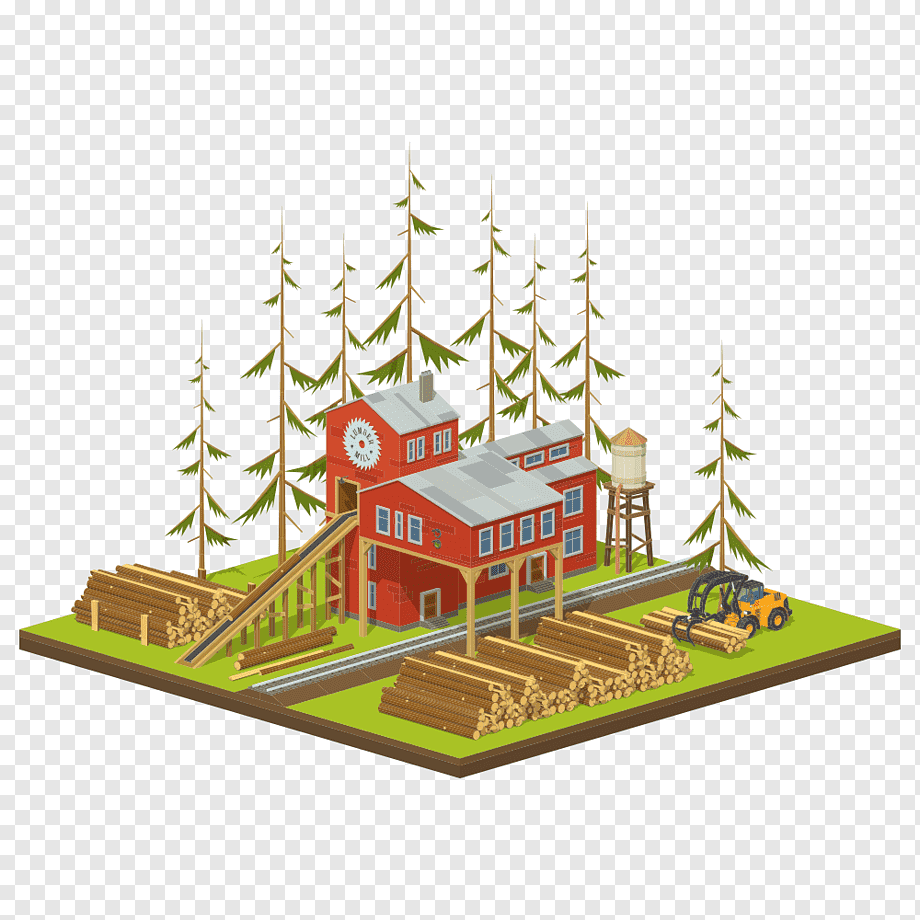
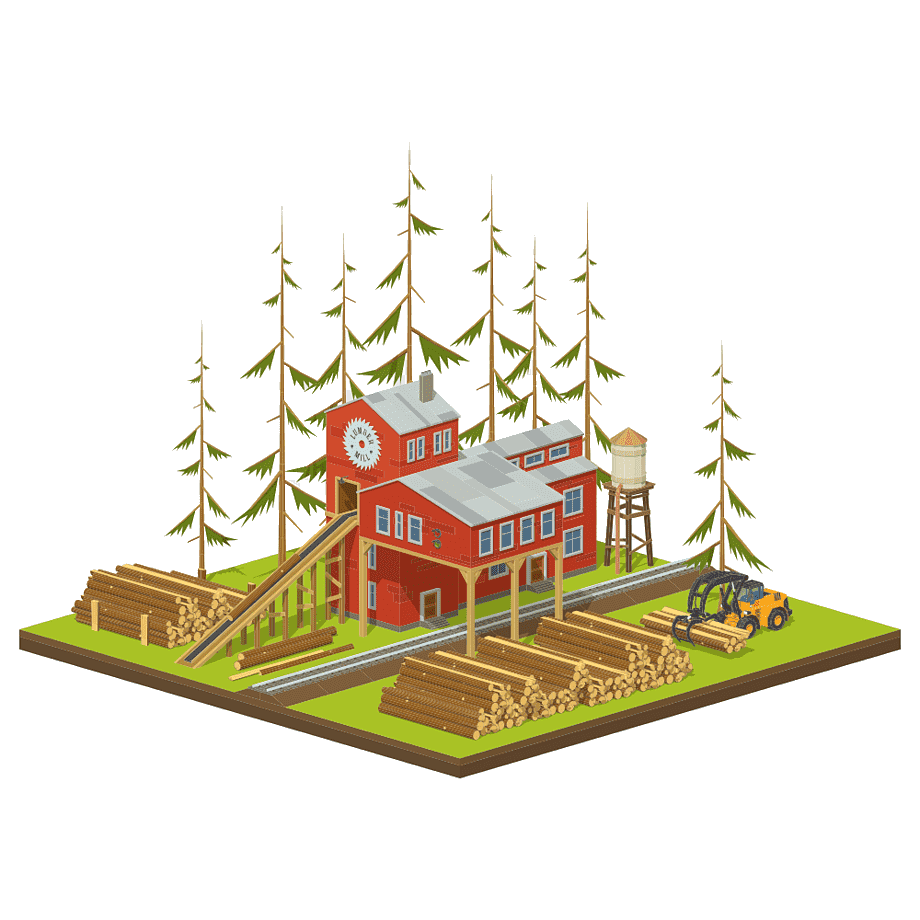
Updated images and added the sawmill Also made doodads cost money

diff --git a/lib/model_assets/doodad_models.dart b/lib/model_assets/doodad_models.dart
@@ -50,7 +50,7 @@ final doodadDefinitionsExample = [
     supportedLocations: {TileType.IronDeposit},
     ticksRequired: 5,
     ticksName: 'Digging',
-    itemMined: [ItemInstanceGenerator(Items.IRON, 1)].build(),
+    itemMined: [ItemInstanceGenerator(Items.IRON_ORE, 1)].build(),
   ),
   RegenerativeHarvestableDoodadDefinition(
       id: DoodadId.tree,
@@ -82,12 +82,23 @@ final doodadDefinitionsExample = [
       id: DoodadId.treeCutterHut,
       name: 'Tree cutter hut',
       description: 'Cuts down trees within 1 range.',
-      imageAsset: 'assets/images/doodad/lumberHut.jpg',
-      storeImageAsset: 'assets/images/doodad/lumberHut.jpg',
+      imageAsset: 'assets/images/doodad/lumberHut.png',
+      storeImageAsset: 'assets/images/doodad/lumberHut.png',
       supportedLocations: {TileType.Grass},
       ticksRequired: 20,
       ticksName: 'Cutting',
       range: 1),
+  MaterialProcessorDoodadDefinition(
+      id: DoodadId.sawMill,
+      name: 'Sawmill',
+      description: 'Cuts wood into planks',
+      imageAsset: 'assets/images/doodad/sawmill.png',
+      storeImageAsset: 'assets/images/doodad/sawmill.png',
+      supportedLocations: {TileType.Grass},
+      ticksRequired: 15,
+      ticksName: 'Cutting',
+      consumedMaterials: ItemRequirement.single(Items.WOOD, 2),
+      itemsProduced: Items.PLANK.generateItemInstance(1)),
   MaterialProcessorDoodadDefinition(
       id: DoodadId.ironSmelter,
       name: 'Iron smelter',
@@ -97,6 +108,6 @@ final doodadDefinitionsExample = [
       supportedLocations: {TileType.Grass},
       ticksRequired: 15,
       ticksName: 'Smelting',
-      consumedMaterials: ItemRequirement.single(Items.IRON, 2),
+      consumedMaterials: ItemRequirement.single(Items.IRON_ORE, 2),
       itemsProduced: Items.IRON_BAR.generateItemInstance(1)),
 ].build();

diff --git a/lib/planet/planet_controller.dart b/lib/planet/planet_controller.dart
@@ -157,8 +157,8 @@ class PlanetController extends StateNotifier<Planet> {
     planet = planet.rebuild((p0) {
       p0[p] = tile.copyWith(resources: tile.resources - resolvedDamage);
     });
-    return Items.IRON
-        .generateItemInstance(resolvedDamage.items[Items.IRON] ?? 0);
+    return Items.IRON_ORE
+        .generateItemInstance(resolvedDamage.items[Items.IRON_ORE] ?? 0);
   }
 
   void scanForResources(PlanetPoint p, int radius) {
@@ -188,7 +188,7 @@ class PlanetController extends StateNotifier<Planet> {
       min(
               255,
               (255 *
-                  planetTile.resources.get(Items.IRON) /
+                  planetTile.resources.get(Items.IRON_ORE) /
                   planet.maxResourceSize))
           .toInt(),
       0,
@@ -205,9 +205,9 @@ class PlanetController extends StateNotifier<Planet> {
         int index = y * width + x;
         var tile = map[PlanetPoint(x, y, 0)]!;
 
-        final color =
-            min(255, (255 * tile.resources.get(Items.IRON) / maxResourceSize))
-                .toInt();
+        final color = min(255,
+                (255 * tile.resources.get(Items.IRON_ORE) / maxResourceSize))
+            .toInt();
         pixels[index] = Color.fromRGBO(
                 tile.visible ? color : 20,
                 tile.visible ? r.nextInt(1) : 100 + r.nextInt(100),

diff --git a/lib/model_assets/quest_models.dart b/lib/model_assets/quest_models.dart
@@ -11,7 +11,7 @@ final quests = [
       description:
           'This is an example quest. Please give me 5 credits so I can give you 25 rocks.',
       enabledRequirement:
-          Requirement(itemsOwned: ItemRequirement.single(Items.IRON, 5)),
+          Requirement(itemsOwned: ItemRequirement.single(Items.IRON_ORE, 5)),
       completeRequirement: Requirement(
         cost: ItemRequirement.single(Items.CREDIT, 5),
       ),
@@ -33,7 +33,7 @@ final quests = [
       description: 'This quest checks that you own Iron',
       enabledRequirement: const Requirement(),
       completeRequirement:
-          Requirement(itemsOwned: ItemRequirement.single(Items.IRON, 5)),
+          Requirement(itemsOwned: ItemRequirement.single(Items.IRON_ORE, 5)),
       reward: QuestReward(
         items: ItemContainer.single(Items.ROCK, 25),
       )),
@@ -45,7 +45,7 @@ final quests = [
       enabledRequirement: const Requirement(),
       completeRequirement: Requirement(
           cost: ItemRequirement({
-        Items.IRON: 50,
+        Items.IRON_ORE: 50,
         Items.CREDIT: 25,
       })),
       reward: const QuestReward(

diff --git a/lib/widgets/planet_page.dart b/lib/widgets/planet_page.dart
@@ -284,6 +284,12 @@ void buyDoodad(WidgetRef ref) {
   final selectedTile = ref.read(selectedTileControllerProvider);
   if (listing == null || selectedTile == null) return;
 
+  final shopController =
+      ref.read(storePlanetBuyMenuControllerProvider.notifier);
+  if (shopController.canBuy(listing)) {
+    shopController.clickListing(listing);
+  }
+
   selectedTile.addDoodad(listing.doodadId.definition);
   ref.read(panelVisibilityState.notifier).state = PanelVisibility.None;
   ref.read(selectedTileControllerProvider.notifier).state = null;
@@ -346,6 +352,10 @@ class DoodadBuildItemWidget extends HookConsumerWidget {
                   children: [
                     AutoSizeText(doodadDefinition.name),
                     AutoSizeText(_listing.cost.requiredItems.toString()),
+                    // AutoSizeText(
+                    //   doodadDefinition.description,
+                    //   minFontSize: 4,
+                    // ),
                   ],
                 ),
               )

diff --git a/lib/model_assets/store_listing_models.dart b/lib/model_assets/store_listing_models.dart
@@ -19,6 +19,12 @@ final _storesListings = <Shop, Iterable<ShopListing>>{
       consumable: false,
     ),
     ShopListing.doodadListing(
+      id: 15,
+      cost: ItemRequirement.single(Items.CREDIT, 1),
+      doodadId: DoodadId.sawMill,
+      consumable: false,
+    ),
+    ShopListing.doodadListing(
       id: 13,
       cost: ItemRequirement.single(Items.CREDIT, 1),
       doodadId: DoodadId.houseLevel1,
@@ -58,7 +64,7 @@ Iterable<ShopListing> getShopListings(Shop shop) =>
 final _mainNavStore = [
   ShopListing.itemListing(
       id: 1,
-      cost: ItemRequirement.single(Items.IRON, 5),
+      cost: ItemRequirement.single(Items.IRON_ORE, 5),
       item: ItemInstanceGenerator(Items.CREDIT, 25)),
   ShopListing.itemListing(
       id: 2,

diff --git a/lib/model_assets/item_models.dart b/lib/model_assets/item_models.dart
@@ -24,11 +24,11 @@ final itemModels = [
       image: 'assets/images/placeholder.png',
       attributes: {WeaponAttributes.SHARP: 10.0}),
   const ItemDefinition.resourceDefinition(
-      id: Items.IRON,
-      name: 'Iron',
-      namePlural: 'Iron',
+      id: Items.IRON_ORE,
+      name: 'Iron ore',
+      namePlural: 'Iron ore',
       description: 'Can be mined',
-      image: 'assets/images/minerals/iron.png',
+      image: 'assets/images/all/ironOre.png',
       maxStackSize: 100),
   const ItemDefinition.resourceDefinition(
       id: Items.IRON_BAR,

diff --git a/lib/planet/widgets/src/planet_interface_widget.dart b/lib/planet/widgets/src/planet_interface_widget.dart
@@ -48,7 +48,7 @@ class PlanetInterfaceWidget extends HookConsumerWidget {
                               ref.read(planetControllerProvider.notifier).dig(
                                   selectedTile.point,
                                   ItemRequirement({
-                                    Items.IRON: 1,
+                                    Items.IRON_ORE: 1,
                                   })));
                         },
                         child: const Text('dig')),

diff --git a/lib/doodads/base/doodad_id.dart b/lib/doodads/base/doodad_id.dart
@@ -16,6 +16,7 @@ class DoodadId with _$DoodadId {
   static const DoodadId ironDigger = DoodadId('IRON_DIGGER');
   static const DoodadId tree = DoodadId('TREE');
   static const DoodadId treeCutterHut = DoodadId('TREE_CUTTER_HUT');
+  static const DoodadId sawMill = DoodadId('SAW_MILL');
   static const DoodadId ironSmelter = DoodadId('IRON_SMELTER');
   static const DoodadId rawFish = DoodadId('RAW_FISH');
   static const DoodadId houseLevel1 = DoodadId('HOUSE_LEVEL_1');

diff --git a/lib/item_management/item_keys.dart b/lib/item_management/item_keys.dart
@@ -5,7 +5,7 @@ import 'item_definition.dart';
 class Items {
   static const ROCK = ItemDefinitionId('ROCK');
   static const SHARP_ROCK = ItemDefinitionId('SHARP_ROCK');
-  static const IRON = ItemDefinitionId('IRON');
+  static const IRON_ORE = ItemDefinitionId('IRON');
   static const IRON_BAR = ItemDefinitionId('IRON_BAR');
   static const COPPER = ItemDefinitionId('COPPER');
   static const TEST_DRILL = ItemDefinitionId('TEST_DRILL');

diff --git a/lib/planet/planet.dart b/lib/planet/planet.dart
@@ -59,7 +59,11 @@ class Planet {
 
   tileColor(PlanetTile planetTile) => Color.fromARGB(
       255,
-      min(255, (255 * planetTile.resources.get(Items.IRON) / maxResourceSize))
+      min(
+              255,
+              (255 *
+                  planetTile.resources.get(Items.IRON_ORE) /
+                  maxResourceSize))
           .toInt(),
       0,
       0);

diff --git a/lib/widgets/status_bar.dart b/lib/widgets/status_bar.dart
@@ -23,7 +23,7 @@ class StatusBarWidget extends HookConsumerWidget {
         child: Column(
           children: [
             Table(
-              columnWidths: {
+              columnWidths: const {
                 0: IntrinsicColumnWidth(),
                 1: IntrinsicColumnWidth(),
               },
